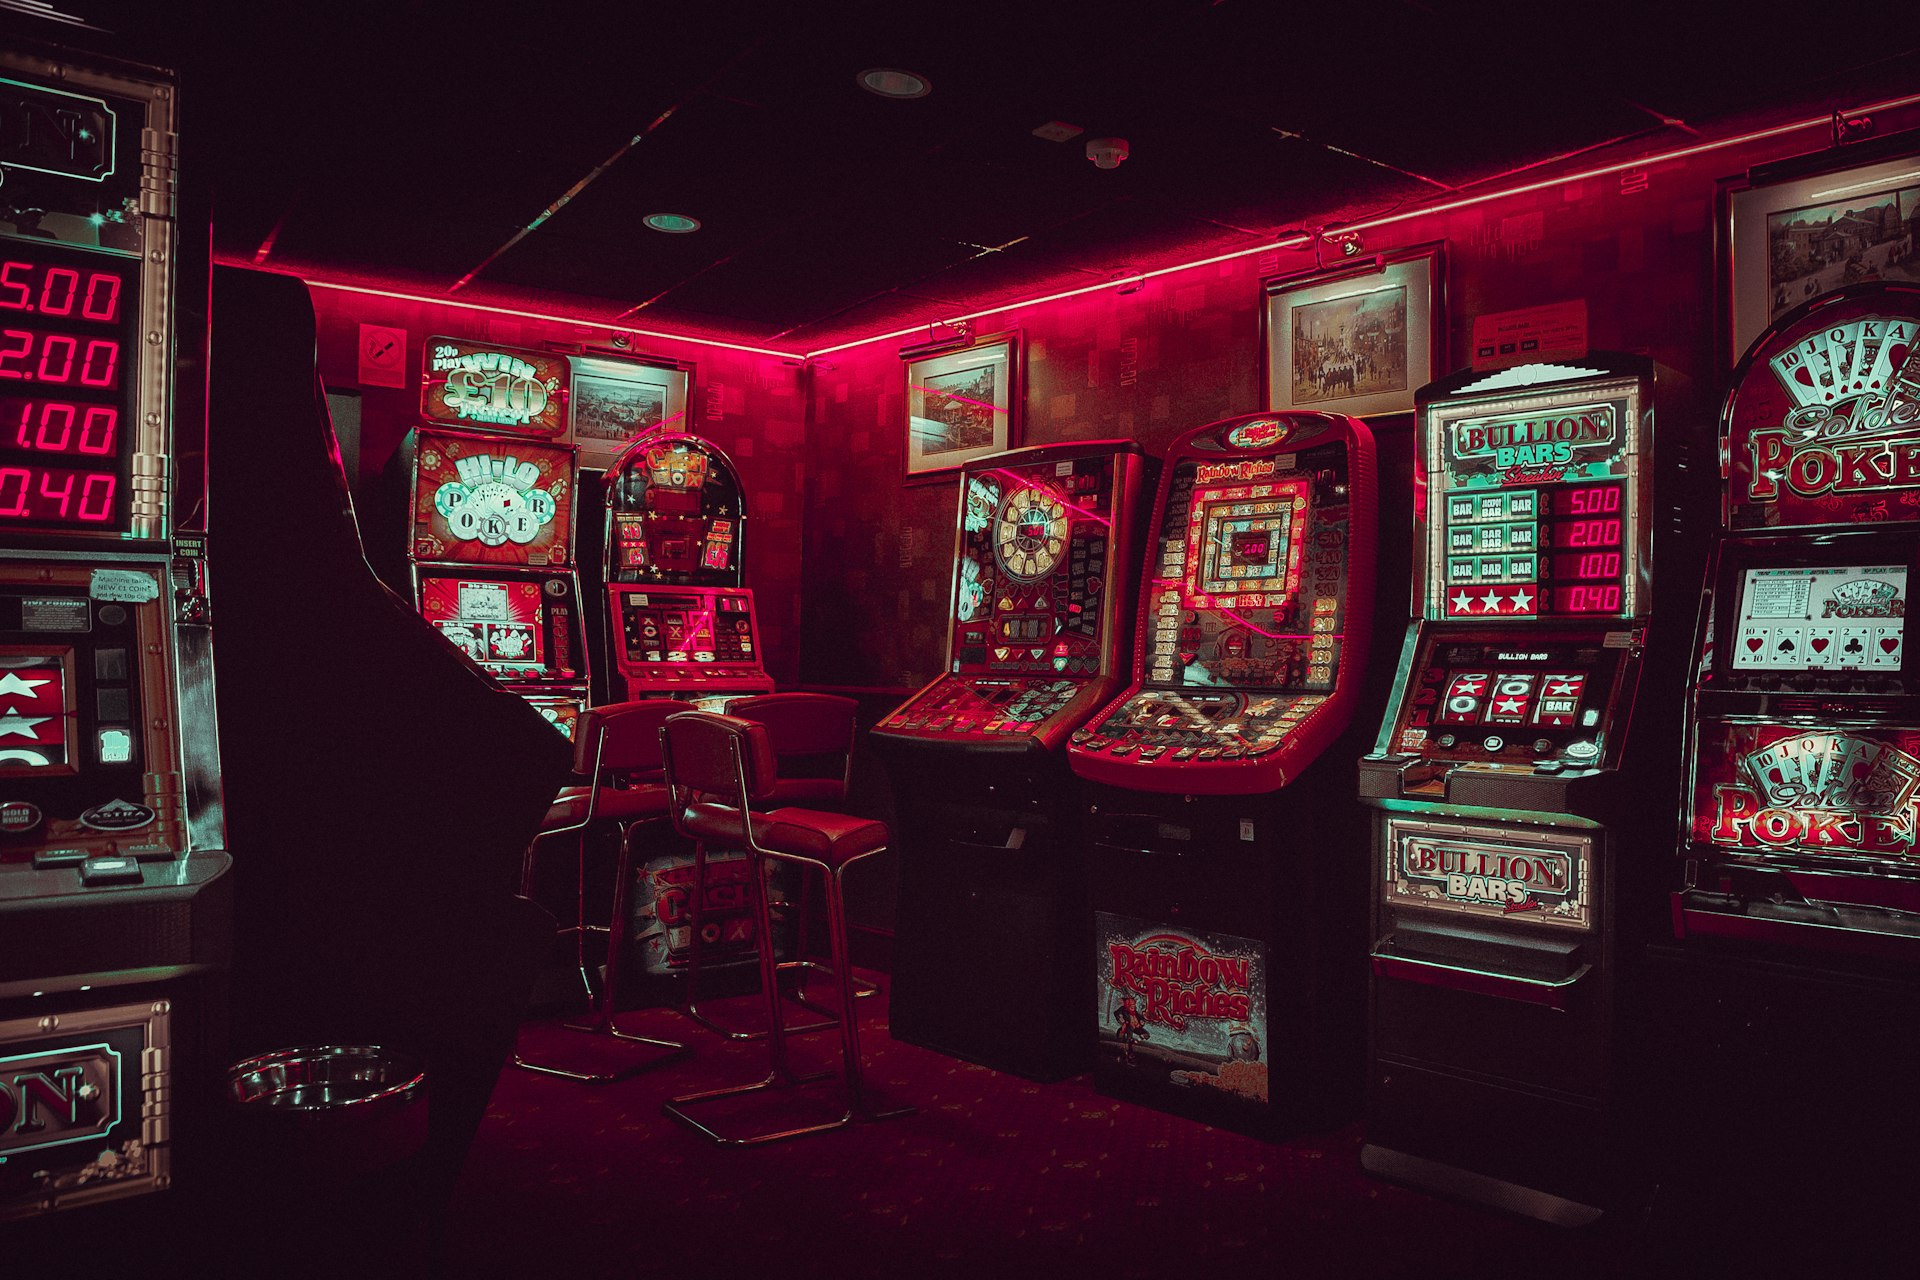
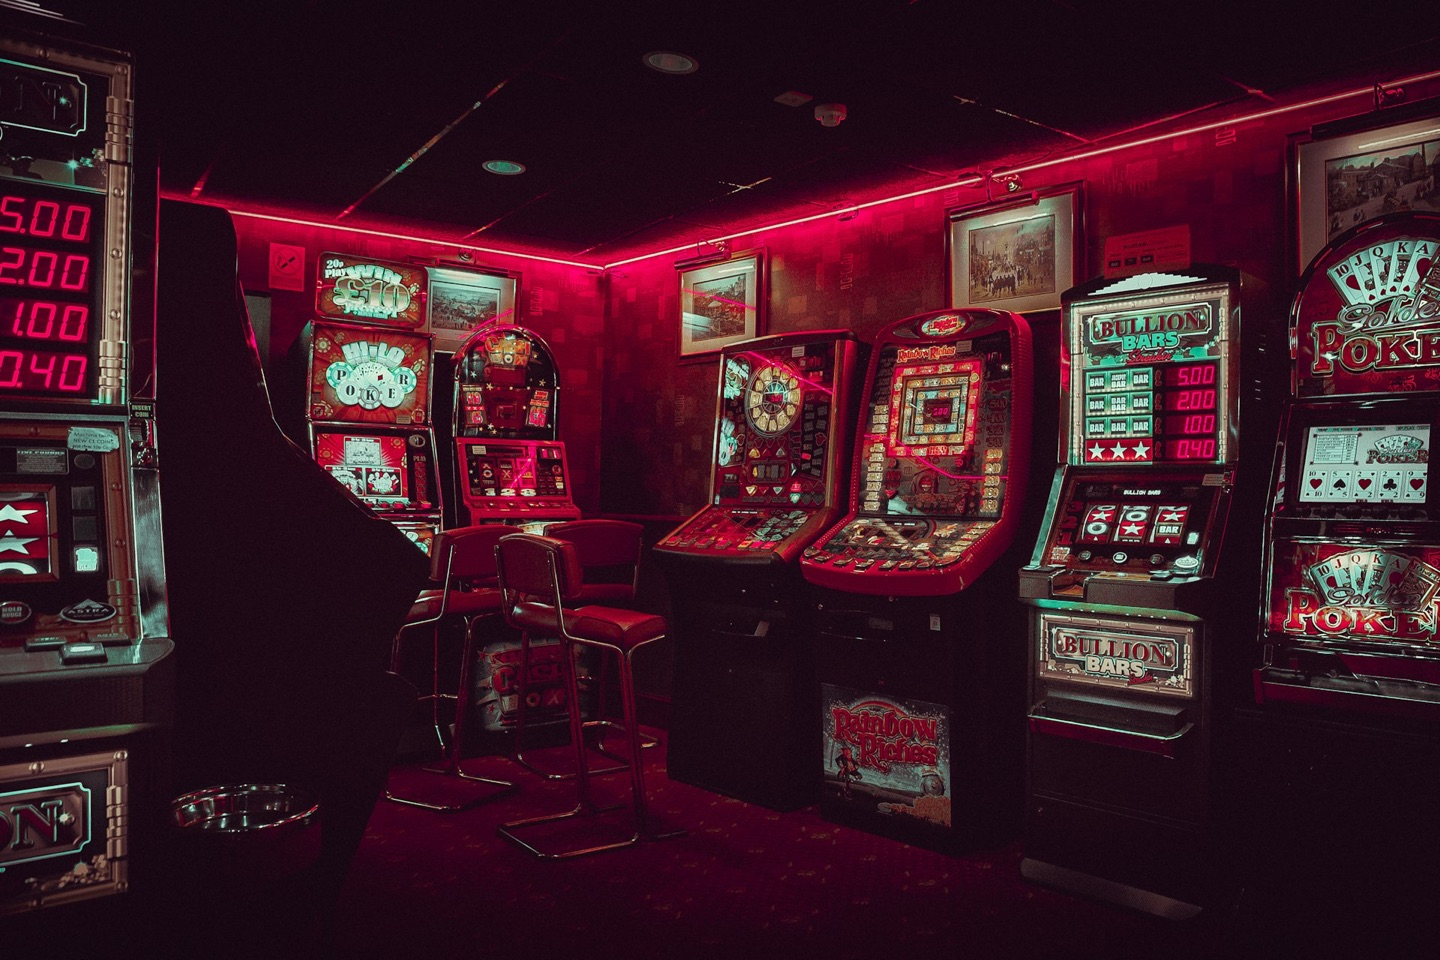
Full SEO audit fixes — images, schema, canonicals, preloads
Image optimization (biggest LCP/CLS wins):
- jk667.png: 1.7MB → 254KB (resized to 400px)
- pkbet7-screen: 838KB PNG → 260KB JPEG
- pak500-screen: 814KB PNG → 183KB JPEG
- jk667-1: 601KB PNG → 176KB JPEG
- 588win-1: 670KB PNG → 188KB JPEG
- pk3-1: 616KB PNG → 176KB JPEG
- pk5555-1: 452KB PNG → 55KB JPEG (also resized from 2560px → 800px)
- hero-bg.jpg: 468KB → 368KB (resized to 1440px)
Total: ~5.4MB → ~1.7MB (-68%)

Code fixes:
- <img> tag in hero → Next.js <Image> with descriptive alt text
- Added Image import to [slug]/page.js
- Schema: added softwareVersion + fileSize to SoftwareApplication JSON-LD
- Removed icons2/icons3 preloads (saves ~1.6MB on initial load)
- Added canonical + robots:noindex to privacy-policy and terms pages
- Updated all .png screenshot references to .jpg in games.js

Changed region(s): [[0.9375, 0.625, 1.0, 0.6562], [0.9688, 0.3438, 1.0, 0.375], [0.7812, 0.3438, 0.8125, 0.375]]

diff --git a/src/lib/games.js b/src/lib/games.js
@@ -8,7 +8,7 @@ export const TOP_GAMES = [
     seoTitle: "588Win APK – 100% Bonus Earn Rs 50K/Day Pakistan",
     seoDesc: "Download 588Win APK. Casino slots, crash & card games Pakistan. Rs 200 bonus. EasyPaisa & JazzCash withdrawal. 48K+. Rated 4★ 2026. 48K+ ra.",
     cat: "Casino & Slots",
-    screenshots: ["/images/screenshots/lucky-3.webp", "/images/screenshots/lucky-2.webp", "/images/screenshots/588win-1.png", "/images/screenshots/pk888-1.webp"],
+    screenshots: ["/images/screenshots/lucky-3.webp", "/images/screenshots/lucky-2.webp", "/images/screenshots/588win-1.jpg", "/images/screenshots/pk888-1.webp"],
     tagline: "Pakistan's most popular casino app with 100% welcome bonus",
     minDep: "Rs 200", maxWith: "Rs 50,000/day",
     payments: ["EasyPaisa", "JazzCash", "Bank Transfer"],
@@ -565,7 +565,7 @@ export const TOP_GAMES = [
     seoTitle: "PKACE APK – Andar Bahar Teen Patti Live Pakistan",
     seoDesc: "Download PKACE APK. Teen Patti & real money card games Pakistan. Rs 200 bonus. EasyPaisa & JazzCash withdrawal. 17K+. Rated 3★ 2026. 17K+ r.",
     cat: "Card Games",
-    screenshots: ["/images/screenshots/lucky-3.webp", "/images/screenshots/lucky-2.webp", "/images/screenshots/pk3-1.png", "/images/screenshots/lucky-1.webp"],
+    screenshots: ["/images/screenshots/lucky-3.webp", "/images/screenshots/lucky-2.webp", "/images/screenshots/pk3-1.jpg", "/images/screenshots/lucky-1.webp"],
     tagline: "Pakistan's best card game app — Andar Bahar & Teen Patti",
     minDep: "Rs 200", maxWith: "Rs 25,000/day",
     payments: ["EasyPaisa", "JazzCash"],
@@ -661,7 +661,7 @@ export const TOP_GAMES = [
     seoTitle: "8JJbet APK – JJBet Card Game Earning App Pakistan",
     seoDesc: "Download 8JJbet APK. Teen Patti & real money card games Pakistan. Rs 200 bonus. EasyPaisa & JazzCash withdrawal. 15K+. Rated 3★ 2026. 15K+.",
     cat: "Card Games",
-    screenshots: ["/images/screenshots/lucky-3.webp", "/images/screenshots/lucky-2.webp", "/images/screenshots/pk3-1.png", "/images/screenshots/lucky-1.webp"],
+    screenshots: ["/images/screenshots/lucky-3.webp", "/images/screenshots/lucky-2.webp", "/images/screenshots/pk3-1.jpg", "/images/screenshots/lucky-1.webp"],
     tagline: "Multi-game platform with a focus on Pakistani card classics",
     minDep: "Rs 200", maxWith: "Rs 25,000/day",
     payments: ["EasyPaisa", "JazzCash"],
@@ -831,7 +831,7 @@ export const TOP_GAMES = [
     seoTitle: "JJ77 APK – Rummy & Teen Patti Casino App Pakistan",
     seoDesc: "Download JJ77 APK. Teen Patti & real money card games Pakistan. Rs 200 bonus. EasyPaisa & JazzCash withdrawal. 23K+. Rated 4★ 2026. 23K+ ra.",
     cat: "Card Games",
-    screenshots: ["/images/screenshots/lucky-3.webp", "/images/screenshots/lucky-2.webp", "/images/screenshots/pk3-1.png", "/images/screenshots/lucky-1.webp"],
+    screenshots: ["/images/screenshots/lucky-3.webp", "/images/screenshots/lucky-2.webp", "/images/screenshots/pk3-1.jpg", "/images/screenshots/lucky-1.webp"],
     tagline: "Premium Teen Patti and Rummy platform for Pakistani card players",
     minDep: "Rs 200", maxWith: "Rs 30,000/day",
     payments: ["EasyPaisa", "JazzCash", "Bank Transfer"],
@@ -954,7 +954,7 @@ export const TOP_GAMES = [
     seoTitle: "1JJ APK – Teen Patti Progressive Side Bet Pakistan",
     seoDesc: "Download 1JJ APK. Teen Patti & real money card games Pakistan. Rs 200 bonus. EasyPaisa & JazzCash withdrawal. 11K+. Rated 3★ 2026. 11K+ rat.",
     cat: "Card Games",
-    screenshots: ["/images/screenshots/lucky-3.webp", "/images/screenshots/lucky-2.webp", "/images/screenshots/pk3-1.png", "/images/screenshots/lucky-1.webp"],
+    screenshots: ["/images/screenshots/lucky-3.webp", "/images/screenshots/lucky-2.webp", "/images/screenshots/pk3-1.jpg", "/images/screenshots/lucky-1.webp"],
     tagline: "Single-table card game app with high-stakes hand rankings",
     minDep: "Rs 200", maxWith: "Rs 20,000/day",
     payments: ["EasyPaisa", "JazzCash"],
@@ -1031,7 +1031,7 @@ export const TOP_GAMES = [
     seoDesc: "Download QZ786 APK. Teen Patti & real money card games Pakistan. Rs 150 bonus. EasyPaisa & JazzCash withdrawal. 13K+. Rated 4★ 2026. 13K+ r.",
     cat: "Card Games",
     isNew: true,
-    screenshots: ["/images/screenshots/pk3-1.png", "/images/screenshots/lucky-1.webp", "/images/screenshots/lucky-2.webp", "/images/screenshots/lucky-3.webp"],
+    screenshots: ["/images/screenshots/pk3-1.jpg", "/images/screenshots/lucky-1.webp", "/images/screenshots/lucky-2.webp", "/images/screenshots/lucky-3.webp"],
     tagline: "QZ786 — Fast card & prediction games with daily JazzCash bonuses",
     minDep: "Rs 150", maxWith: "Rs 25,000/day",
     payments: ["EasyPaisa", "JazzCash"],
@@ -1340,7 +1340,7 @@ export const TOP_GAMES = [
     minDep: "Rs 100", maxWith: "Rs 30,000/day",
     payments: ["EasyPaisa", "JazzCash"],
     size: "45 MB", downloads: "8K+", bonus: "Rs. 125 Welcome Bonus",
-    screenshots: ["/images/screenshots/pk5555-1.png", "/images/screenshots/pk5555-logo.png", "/images/screenshots/lucky-3.webp"],
+    screenshots: ["/images/screenshots/pk5555-1.jpg", "/images/screenshots/pk5555-logo.png", "/images/screenshots/lucky-3.webp"],
     desc: "PK5555 is built around a mechanic you will not find on any other Pakistani earning app: the 5555 round. These special rounds trigger randomly throughout the session — the app displays a countdown notification 10 seconds before the round begins — and every active bet placed when the 5555 round fires returns exactly 5 times the stake. A player with Rs 500 active across slots or color prediction at the moment of a 5555 round walks away with Rs 2,500 from that single event. The frequency of 5555 rounds is disclosed in the platform's help section, averaging roughly 1 per 20–30 minutes of active play.\n\nBeyond the multiplier mechanic, PK5555 bundles five complete and distinct game types in a 45MB APK. The slot section covers over 60 titles including themed jackpot machines with progressive prize pools. The fishing game uses real-time multiplayer lobbies where players fire at fish of varying point values — rare golden fish awards 500x the shot cost. The card room covers Teen Patti Classic, Teen Patti Joker, Andar Bahar, and Dragon Tiger. The color prediction section runs Wingo-style rounds with Green, Red, and Violet outcomes. The crash game uses an Aviator-style rocket mechanic with manual and auto cash-out options.\n\nThe Rs 5,000 weekly jackpot is distributed every Monday to the top 5 earners by total wagered volume across all game types — not just slots. This incentivises active play across multiple sections of the app rather than grinding one game exclusively. The 5-level VIP system starts at Silver (unlocks priority withdrawal processing) and advances to Black Elite (unlocks a dedicated withdrawal manager, exclusive bonus multipliers, and a private WhatsApp support line).\n\nThe referral structure pays Rs 150 per direct referral plus a 1% ongoing commission on every deposit the referred friend makes. Unlike percentage-only referral programs, the Rs 150 flat bonus pays regardless of whether the referral ever deposits — it activates when the friend completes registration. EasyPaisa and JazzCash withdrawals are available from a minimum of Rs 100 with no processing fee charged by the platform. Bank transfer withdrawals are available for VIP Level 3 and above.",
     features: [
       "5x Multiplier on Special 5555 Rounds",
@@ -1382,7 +1382,7 @@ export const TOP_GAMES = [
     minDep: "Rs 200", maxWith: "Rs 20,000/day",
     payments: ["EasyPaisa", "JazzCash", "Bank Transfer"],
     size: "20 MB", downloads: "12K+", bonus: "Rs. 200 Welcome Bonus",
-    screenshots: ["/images/games/jk667-1.png", "/images/screenshots/lucky-3.webp", "/images/screenshots/lucky-2.webp"],
+    screenshots: ["/images/games/jk667-1.jpg", "/images/screenshots/lucky-3.webp", "/images/screenshots/lucky-2.webp"],
     desc: "JK667 has been running in Pakistan since late 2024 and has built a reputation for two specific things that experienced Pakistani casino players care about: slot RTP and withdrawal speed. The platform's published slot RTPs average 96.5–97.2% across its 200+ titles — measurably higher than the 94–95% typical of Pakistani casino APKs — meaning player balances last statistically longer per session. This single differentiator has driven the platform's 12,000+ download count without significant marketing spend.\n\nThe slot library covers Fortune Tiger, Fortune Rabbit, Fortune Gems, Money Coming, Dragon Tiger Luck, Wild Bandito, and Mahjong Ways — all from established Asian game studios with verified payout records. Stakes begin at Rs 1 per spin across the full library, making even the premium jackpot slots accessible to players depositing the Rs 200 minimum. The daily jackpot machine pays out at least once per 24 hours, with the current jackpot amount displayed in real time on the slot lobby screen.\n\nThe fishing section runs 6 concurrent multiplayer tables at four stake levels: casual (Rs 5/shot), standard (Rs 50/shot), high-roller (Rs 200/shot), and VIP (Rs 500/shot). Boss fish at each table carry 100x–500x multipliers and appear on a fixed timer — experienced fishing players track the timer to position their high-value shots at boss-arrival moments. The card room operates Teen Patti Classic, Teen Patti No Limit, Andar Bahar, Rummy Points, Baccarat Standard, and Dragon Tiger — each with both practice and real-money tables.\n\nLive dealer sessions run from 10AM to 2AM Pakistan time with roulette, blackjack, and baccarat tables starting from Rs 50 per hand. The live stream quality uses 1080p with sub-2-second latency on a 4G connection. JK667's bonus wagering requirement of 5x is the lowest we have verified among Pakistani casino apps — most competitors require 20–35x. The 2FA account security, HTTPS encryption, and Rs 200 minimum deposit round out a platform designed with Pakistani player habits in mind.",
     features: [
       "200+ Slot Titles Including Fortune Tiger & Wild Bandito",
@@ -1599,7 +1599,7 @@ export const TOP_GAMES = [
     minDep: "Rs 100", maxWith: "Rs 50,000/day",
     payments: ["JazzCash", "EasyPaisa"],
     size: "28 MB", downloads: "15K+", bonus: "Rs. 500 Instant Signup Bonus",
-    screenshots: ["/images/games/pak500-screen.png", "/images/screenshots/color-1.webp", "/images/screenshots/lucky-3.webp"],
+    screenshots: ["/images/games/pak500-screen.jpg", "/images/screenshots/color-1.webp", "/images/screenshots/lucky-3.webp"],
     desc: "Pak500 is a Pakistani multi-format earning app built around Wingo colour prediction as its flagship game, supported by 18 additional game types including K3 and 5D lottery draws, Aviator crash, Teen Patti, Andar Bahar, Dragon Tiger, Rummy, PG slot machines, Fish Shooting, Lucky Wheel, Cricket Prediction, Roulette, Blackjack, Baccarat, Poker, Plinko, Mines, and Ludo. The app has accumulated over 15,000 downloads since its launch, making it one of the faster-growing colour prediction platforms in Pakistan. The standout financial feature is the 30% lifetime referral commission — the highest flat-rate referral structure in our entire directory of earning apps. New users receive Rs 500 instantly on signup before any deposit is required, and a 50% first deposit match adds up to Rs 5,000 in bonus funds. The VIP system runs from V1 to V10, with V5 and above unlocking unlimited daily withdrawals. Pak500 also accepts bank transfers through major Pakistani banks including HBL, UBL, MCB, Allied, and Meezan — useful for players who prefer direct banking over mobile wallets.",
     features: [
       "Wingo Colour Prediction — Flagship Game",
@@ -1646,7 +1646,7 @@ export const TOP_GAMES = [
     minDep: "Rs 100", maxWith: "Rs 50,000/day",
     payments: ["EasyPaisa", "JazzCash"],
     size: "23.5 MB", downloads: "20K+", bonus: "Rs. 500 Free Signup Bonus + 50% First Deposit",
-    screenshots: ["/images/games/pkbet7-screen.png", "/images/screenshots/color-1.webp", "/images/screenshots/lucky-3.webp"],
+    screenshots: ["/images/games/pkbet7-screen.jpg", "/images/screenshots/color-1.webp", "/images/screenshots/lucky-3.webp"],
     desc: "PKBet7 is a Pakistani colour prediction and multi-game platform rated 4.8 out of 5 by over 800 verified users — the highest community rating of any new app we have reviewed in 2026. The platform runs 10 distinct game formats including Wingo, K3 and 5D lottery draws, Dragon Tiger, Teen Patti, Fortune Tiger and Fortune Rabbit slots, a Fish Shooting arcade, Cricket Prediction, and an Aviator-style crash game. What genuinely sets PKBet7 apart is its agent salary model: active team managers receive a 6% daily salary on their entire referral network's activity — a guaranteed daily income stream that does not depend on winning individual games. The Lucky Wheel spins daily with prizes up to Rs 1,500, and the daily check-in bonus adds free balance every 24 hours. Rs 600 per direct referral — paid as a fixed bonus rather than a percentage — is among the clearest referral structures in the Pakistani earning app market. Withdrawals to EasyPaisa and JazzCash process in 10 to 15 minutes around the clock.",
     features: [
       "10 Game Types: Wingo, K3, 5D, Crash, Slots & More",

diff --git a/src/app/privacy-policy/page.js b/src/app/privacy-policy/page.js
@@ -1,6 +1,8 @@
 export const metadata = {
-  title: "Privacy Policy | Digital APK Games",
-  description: "DigitalAPK Privacy Policy — how we collect and protect user data on Pakistan's earning game review platform. EasyPaisa & JazzCash data handled securely."
+  title: "Privacy Policy | DigitalAPK — Earning Games Pakistan",
+  description: "DigitalAPK Privacy Policy — how we collect and protect user data on Pakistan's earning game review platform. EasyPaisa & JazzCash data handled securely.",
+  alternates: { canonical: "https://digitalapkgames.com/privacy-policy" },
+  robots: { index: false, follow: true },
 };
 
 export default function PrivacyPolicy() {

diff --git a/src/app/terms-and-conditions/page.js b/src/app/terms-and-conditions/page.js
@@ -1,6 +1,8 @@
 export const metadata = {
-  title: "Terms and Conditions | Digital APK Games",
-  description: "DigitalAPK Terms & Conditions — rules for using Pakistan's earning app review platform. Covers affiliate links, EasyPaisa JazzCash content, and user responsibilities."
+  title: "Terms and Conditions | DigitalAPK — Earning Games Pakistan",
+  description: "DigitalAPK Terms & Conditions — rules for using Pakistan's earning app review platform. Covers affiliate links, EasyPaisa JazzCash content, and user responsibilities.",
+  alternates: { canonical: "https://digitalapkgames.com/terms-and-conditions" },
+  robots: { index: false, follow: true },
 };
 
 export default function TermsAndConditions() {

diff --git a/src/app/[slug]/page.js b/src/app/[slug]/page.js
@@ -1,5 +1,6 @@
 import { notFound } from "next/navigation";
 import Link from "next/link";
+import Image from "next/image";
 import { TOP_GAMES, SPRITES } from "@/lib/games";
 
 export async function generateStaticParams() {
@@ -138,6 +139,8 @@ export default async function GamePage({ params }) {
     "name": `${game.t} APK`,
     "applicationCategory": "GameApplication",
     "operatingSystem": "Android 6.0+",
+    "softwareVersion": game.v,
+    "fileSize": game.size,
     "description": game.desc,
     "url": pageUrl,
     "downloadUrl": pageUrl,
@@ -236,7 +239,7 @@ export default async function GamePage({ params }) {
           <div style={{ width: "100px", height: "100px", borderRadius: "18px", overflow: "hidden", background: "#080c12", position: "relative", flexShrink: 0 }}>
             {game.img ? (
               /* eslint-disable-next-line @next/next/no-img-element */
-              <img src={game.img} alt={`${game.t} APK icon`} style={{ width: "100%", height: "100%", objectFit: "contain", padding: "8px" }} />
+              <Image src={game.img} alt={`${game.t} APK — download ${game.cat} earning app Pakistan`} fill className="object-contain p-2" sizes="160px" />
             ) : (
               <div style={{ position: "absolute", inset: 0, backgroundImage: `url(${spriteUrl})`, backgroundPosition: `${bgPosX}% ${bgPosY}%`, backgroundSize: "400% 300%", backgroundRepeat: "no-repeat" }} aria-hidden="true" />
             )}

diff --git a/src/app/layout.js b/src/app/layout.js
@@ -65,10 +65,8 @@ export default function RootLayout({ children }) {
   return (
     <html lang="en" data-theme="dark" className={`${inter.variable} ${outfit.variable}`}>
       <head>
-        {/* Preload sprite sheets — icons1 is above-the-fold, prioritise it */}
+        {/* Preload only the above-the-fold sprite — icons2/3 load on demand */}
         <link rel="preload" as="image" href="/images/icons1.png" fetchPriority="high" />
-        <link rel="preload" as="image" href="/images/icons2.png" />
-        <link rel="preload" as="image" href="/images/icons3.png" />
       </head>
       <body suppressHydrationWarning>
         <Header />